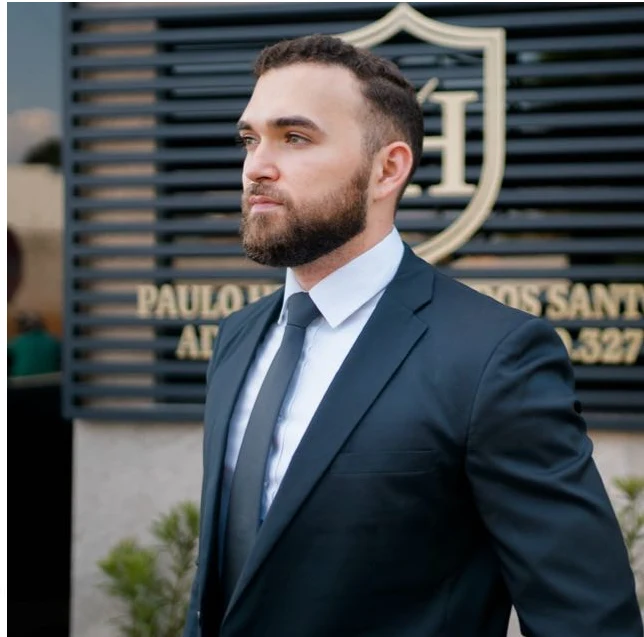
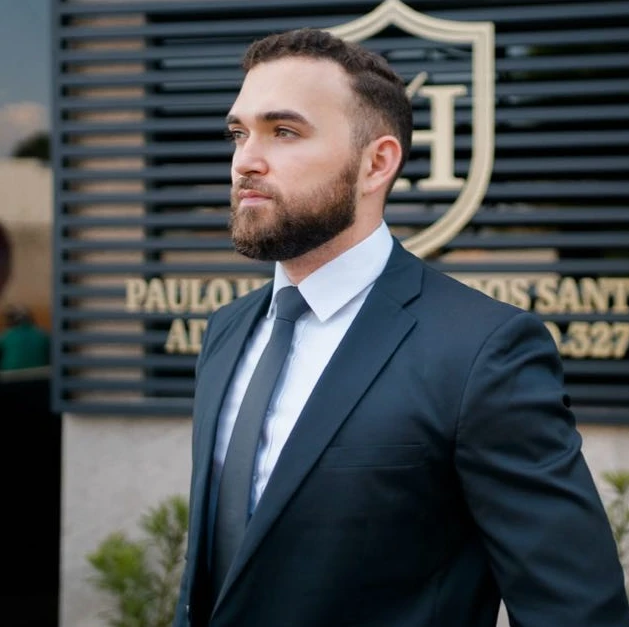
Suaviza a entrada das palavras e remove a faixa branca da foto.
Aumenta o tempo da animação dos títulos e recorta a borda clara do retrato no hero.

diff --git a/paulo-henrique-advocacia/src/components/sections/Hero.tsx b/paulo-henrique-advocacia/src/components/sections/Hero.tsx
@@ -60,14 +60,14 @@ export function Hero() {
               text="Seu direito previdenciário merece uma defesa especializada."
               mouse
               immediate
-              stagger={80}
+              stagger={150}
             />
           </h1>
           <p className="hero-lead mt-6 text-lg leading-relaxed text-ivory/80">
             <ScrollWords
               text="Orientação jurídica clara, atendimento humanizado e estratégia personalizada para proteger seus direitos perante o INSS."
               immediate
-              stagger={32}
+              stagger={85}
             />
           </p>
           <div className="mt-10 flex flex-col gap-3 sm:flex-row">
@@ -86,12 +86,12 @@ export function Hero() {
             <Image
               src="/images/paulo-henrique.webp"
               alt="Paulo Henrique, advogado previdenciário em Estreito - MA"
-              width={900}
-              height={890}
+              width={629}
+              height={627}
               priority
               quality={90}
               sizes="(min-width: 1024px) 42vw, 90vw"
-              className="relative z-10 h-auto w-full object-cover object-[center_18%] lg:min-h-[520px] lg:object-[center_12%]"
+              className="relative z-10 block h-auto w-full bg-navy-deep object-cover object-[center_18%] lg:min-h-[520px] lg:object-[center_12%]"
             />
           </div>
         </div>

diff --git a/paulo-henrique-advocacia/src/app/globals.css b/paulo-henrique-advocacia/src/app/globals.css
@@ -183,6 +183,10 @@ h4 {
   position: relative;
 }
 
+.hero-portrait .gold-frame {
+  background: var(--color-navy-deep);
+}
+
 .gold-frame::after {
   content: "";
   position: absolute;
@@ -194,7 +198,7 @@ h4 {
 
 @media (min-width: 1024px) {
   .gold-frame::after {
-    inset: 14px -14px -14px 14px;
+    inset: 16px;
   }
 }
 
@@ -284,12 +288,12 @@ h4 {
 
 html.js .scroll-word {
   opacity: 0;
-  filter: blur(8px);
-  transform: translate3d(0, 0.7em, 0);
+  filter: blur(5px);
+  transform: translate3d(0, 0.38em, 0);
   transition:
-    opacity 0.62s cubic-bezier(0.22, 1, 0.36, 1),
-    transform 0.62s cubic-bezier(0.22, 1, 0.36, 1),
-    filter 0.62s cubic-bezier(0.22, 1, 0.36, 1);
+    opacity 1.25s cubic-bezier(0.16, 1, 0.3, 1),
+    transform 1.25s cubic-bezier(0.16, 1, 0.3, 1),
+    filter 1.25s cubic-bezier(0.16, 1, 0.3, 1);
 }
 
 html.js .scroll-words.is-active .scroll-word {
@@ -353,7 +357,7 @@ html.js .scroll-words.is-active.has-mouse.is-settled .scroll-word {
 
   html.js .scroll-word {
     filter: none;
-    transform: translate3d(0, 0.45em, 0);
+    transform: translate3d(0, 0.28em, 0);
   }
 
   html.js .scroll-words.is-active .scroll-word,

diff --git a/paulo-henrique-advocacia/src/components/ui/ScrollWords.tsx b/paulo-henrique-advocacia/src/components/ui/ScrollWords.tsx
@@ -12,7 +12,7 @@ import { cn } from "@/lib/cn";
 export function ScrollWords({
   text,
   className,
-  stagger = 75,
+  stagger = 160,
   mouse = true,
   immediate = false,
 }: {
@@ -45,8 +45,8 @@ export function ScrollWords({
     };
 
     if (immediate) {
-      reveal();
-      return;
+      const start = window.setTimeout(reveal, 420);
+      return () => window.clearTimeout(start);
     }
 
     const observer = new IntersectionObserver(
@@ -72,7 +72,7 @@ export function ScrollWords({
     if (!active) return;
     const timeout = window.setTimeout(
       () => setSettled(true),
-      words.length * stagger + 480,
+      words.length * stagger + 1400,
     );
     return () => window.clearTimeout(timeout);
   }, [active, stagger, words.length]);

diff --git a/paulo-henrique-advocacia/src/components/sections/About.tsx b/paulo-henrique-advocacia/src/components/sections/About.tsx
@@ -12,11 +12,11 @@ export function About() {
             <Image
               src="/images/paulo-henrique.webp"
               alt="Paulo Henrique, advogado do escritório Paulo Henrique Advocacia Previdenciária"
-              width={900}
-              height={890}
+              width={629}
+              height={627}
               quality={90}
               sizes="(min-width: 1024px) 44vw, 100vw"
-              className="relative z-10 h-auto w-full object-cover object-[center_18%]"
+              className="relative z-10 block h-auto w-full object-cover object-[center_18%]"
             />
           </div>
         </Reveal>

diff --git a/paulo-henrique-advocacia/src/app/escritorio/page.tsx b/paulo-henrique-advocacia/src/app/escritorio/page.tsx
@@ -24,10 +24,10 @@ export default function EscritorioPage() {
           <Image
             src="/images/paulo-henrique.webp"
             alt="Paulo Henrique, advogado previdenciário em Estreito - MA"
-            width={900}
-            height={890}
+            width={629}
+            height={627}
             quality={90}
-            className="w-full object-cover object-[center_18%]"
+            className="block w-full object-cover object-[center_18%]"
           />
         </div>
         <div className="space-y-5 text-muted leading-relaxed">
